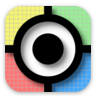
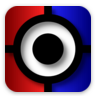
Novos icones.

diff --git a/index.html b/index.html
@@ -145,16 +145,16 @@
                     </div>
                 </div>
                 <ul class="nav col-md-6 d-flex justify-content-end list-unstyled">
-                    <li class="ms-3">
+                    <li class="ms-3 d-none">
                         <a href="#" data-bs-toggle="modal" data-bs-target="#modalResult" title="Clique para revisar o seu resultado do teste político."><i class="bi bi-grid-3x3-gap icon-nav icon-result"></i></a>
-                    </li>
-                    <li class="ms-3">
-                        <a href="#" data-bs-toggle="modal" data-bs-target="#modalHelp" title="Clique para consultar a central de ajuda do site."><i class="bi bi-question-circle icon-nav"></i></a>
                     </li>
                     <li class="ms-3">
                         <a href="#" data-bs-toggle="modal" data-bs-target="#modalSetup" title="Clique para ajustar suas preferências pessoais."><i class="bi bi-gear icon-nav"></i></a>
                     </li>
                     <li class="ms-3">
+                        <a href="#" data-bs-toggle="modal" data-bs-target="#modalHelp" title="Clique para consultar a central de ajuda do site."><i class="bi bi-question-circle icon-nav"></i></a>
+                    </li>
+                    <li class="ms-3 d-none">
                         <a href="#" data-bs-toggle="modal" data-bs-target="#modalDonate" title="Contribua com nossa iniciativa ajudando nosso projeto a crescer."><i class="bi bi-heart-pulse icon-nav"></i></a>
                     </li>
                 </ul>

diff --git a/scripts/main.js b/scripts/main.js
@@ -5,10 +5,12 @@ class PoliticalGps {
     // propriedades publicas:
 
     // propriedades publicas:
-    quizVersion = 1.0; // numero da ultima versao do teste
+    quizLastVersion = 1.0; // numero da ultima versao do teste
     quizDateVersion = null; // data da liberacao desta versao do teste
-    quizTotalQueries = 0; // numero total de questoes do teste
-    quizListQueries = []; // lista de questoes a serem respondidas
+    quizTotalBasicQueries = 0; // numero total de questoes do teste
+    quizListBasicQueries = []; // lista de questoes a serem respondidas
+    quizTotalExtraQueries = 0; // numero total de questoes do teste
+    quizListExtraQueries = []; // lista de questoes a serem respondidas
 
     /**
      * Inicializacao de nova instancia.
